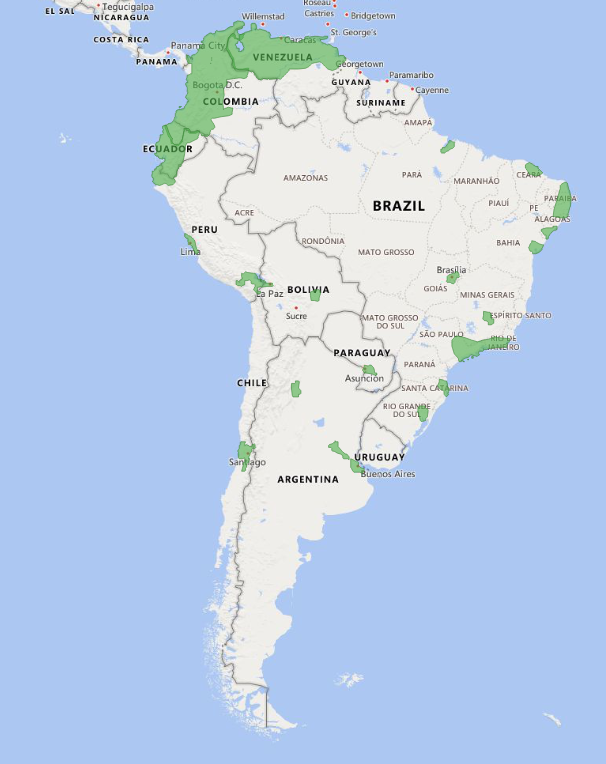
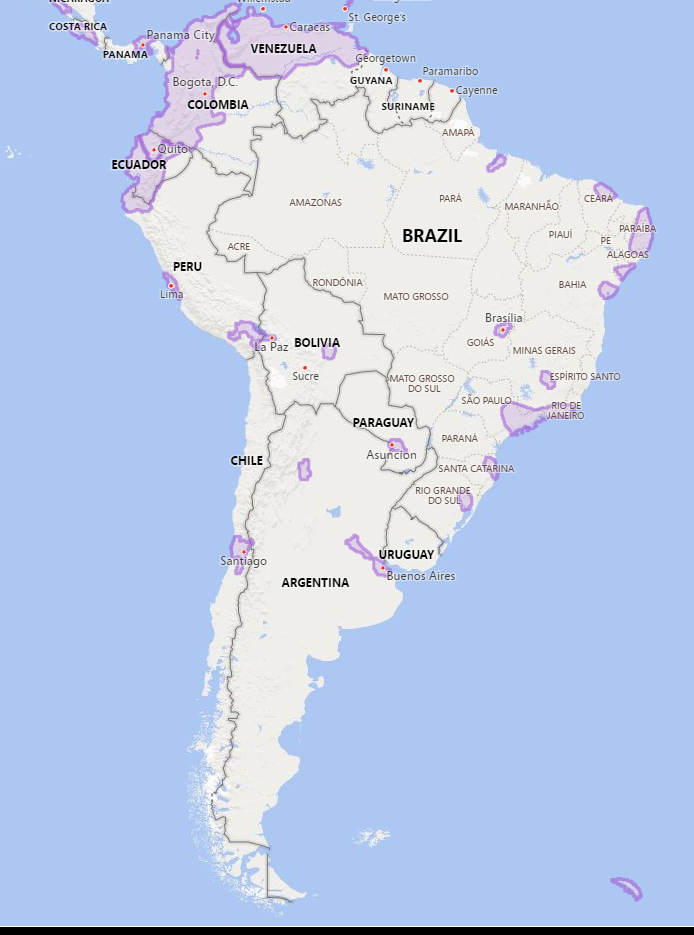
update

Changed region(s): [[0.0, 0.0, 1.0, 1.0], [0.505, 0.873, 0.5941, 0.9031]]

diff --git a/README.md b/README.md
@@ -12,7 +12,7 @@ As the maintainer of this project, please make a few updates:
 
 ## Introduction
 
-Bing Maps is releasing open building footprints datasets in South America countries. We have detected 44.5 million buildings on recently updated Maxar imagery that covers around 61% (258 million) of the South American population. The data is freely available for download and use under applicable license.
+Bing Maps is releasing open building footprints datasets in South America countries. We have detected 44.5 million buildings on recently updated Maxar imagery that covers around 50% of the South American population. The data is freely available for download and use under applicable license.
 ![](/images/image009.png)![](/images/image011.png)
 
 
@@ -77,20 +77,9 @@ We track following metrics to measure the quality of matched buildings in the ev
 
 We estimate ~1.5% false postive ratio in 1000 randomly sampled buildings from the entire output corpus.
 
-### Evaluation recall error space examples
-
-
-In highly urban areas problems and regression start to occur, driving the following metrics down: recall, IoU, and average rotation angle. The most frequent problem is a large number of false negatives caused by a lack of prediction granularity, like in the image below. 
-![](/images/urban.png)
-
-Here is a larger example in urban areas. Our model that splits connected buildings could not adapt without new domain training data. I would say that even training with new data is very unlikely to produce better building splits since the imagery quality in combination with high off-nadir angle makes the whole task extremely hard.
-
-![](/images/urban_large.png)
-Some areas have a high off-nadir angle, which results in wrong footprints: 
-![](/images/off_nadir.png)
 
 ### What is the vintage of this data?
-Vintage of extracted building footprints depends on vintage of the underlying imagery. Bing Imagery is a composite of multiple sources, therefore it is difficult to know the exact dates for individual pieces of data. However we believe the vintage is anywhere from 2013 to 2018, with majority being from 2018.
+Vintage of extracted building footprints depends on vintage of the underlying imagery. Underlying imagery is from Maxar, 2020/2021.
 
 ### How good is the data?
 Our metrics show that in the vast majority of cases the quality is at least as good as data hand digitized buildings in OpenStreetMap. It is not perfect, particularly in dense urban areas but it provides good recall in rural areas.
